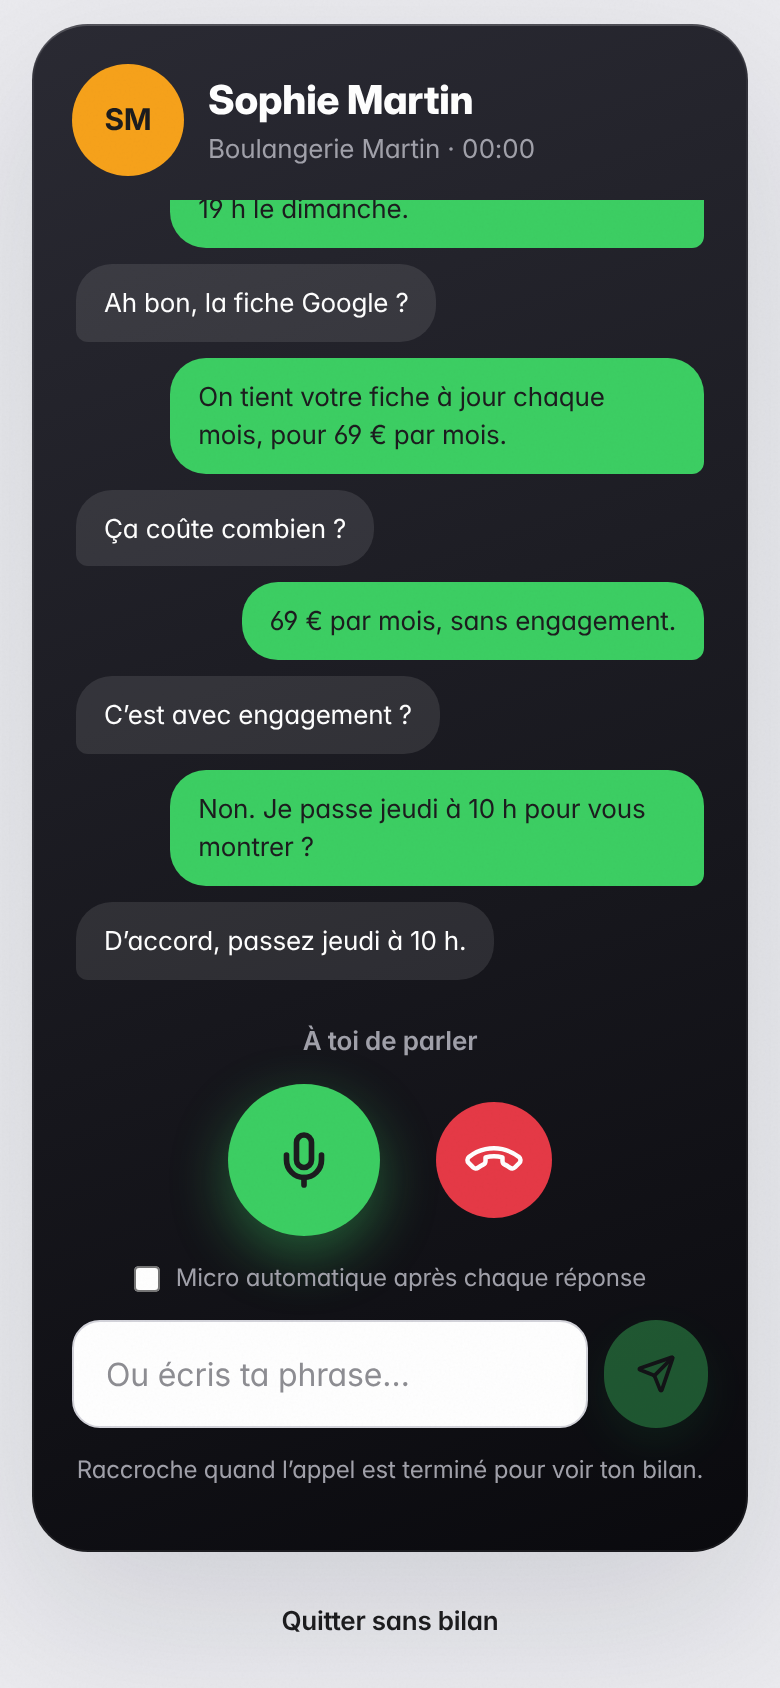
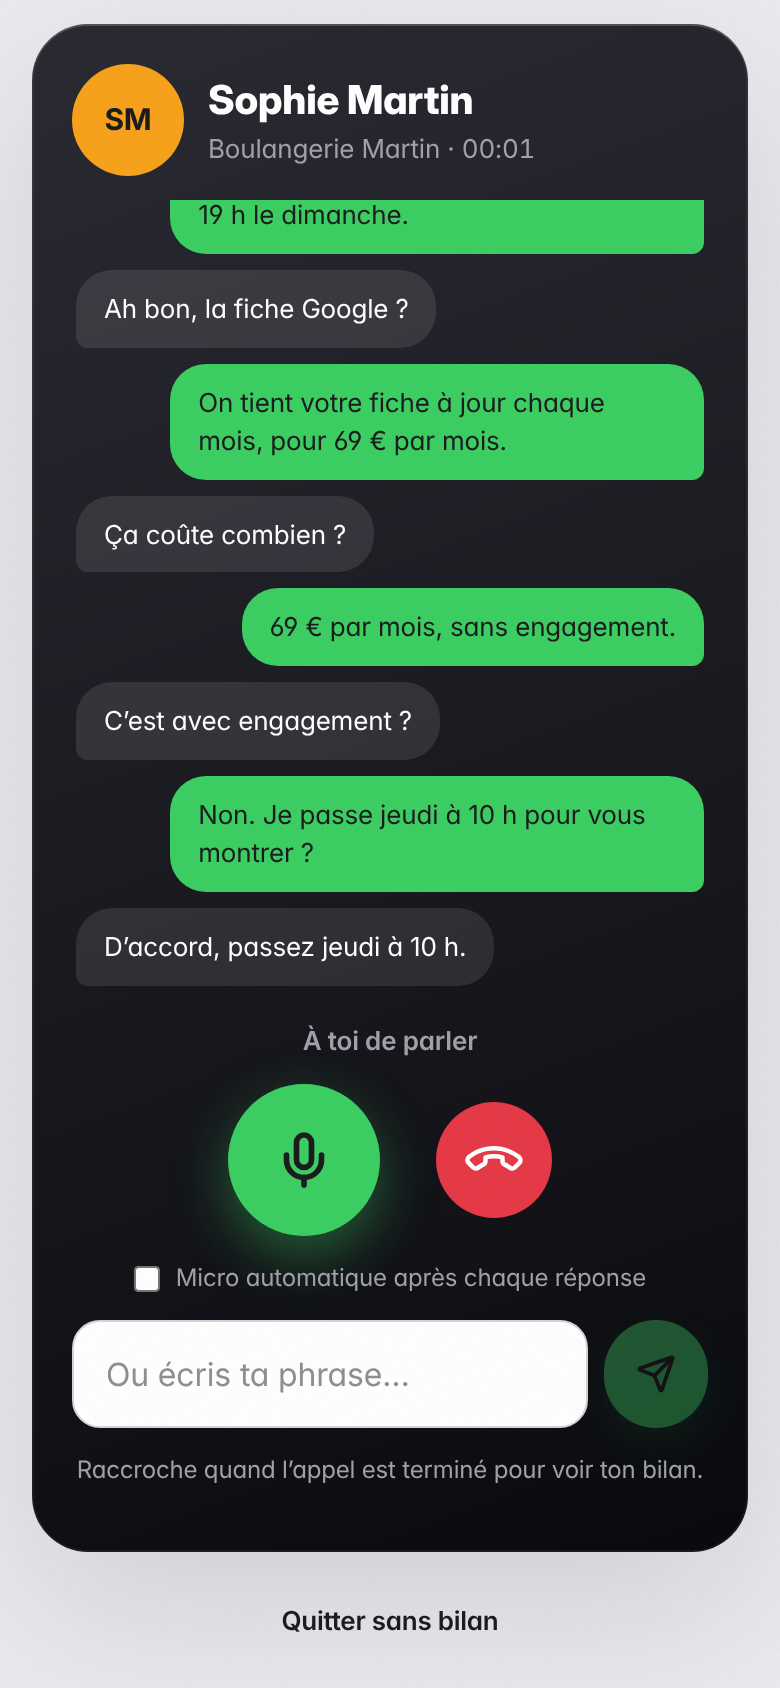
test(entrainement): capture du bilan à taille d'écran réelle
Claude-Session: https://claude.ai/code/session_01DwqZHCTDNdiB7zAEDRBzxH

Changed region(s): [[0.1231, 0.1232, 0.8923, 0.5853], [0.1231, 0.154, 0.1538, 0.1848]]

diff --git a/e2e/app-training.spec.ts b/e2e/app-training.spec.ts
@@ -76,6 +76,10 @@ test.describe('entraînement', () => {
     await expect(page.getByText('« Si je comprends bien, des clients viennent pour rien le dimanche ? »')).toBeVisible();
     await expectAccessible(page, 'bilan');
     if (process.env['DEMO']) await page.screenshot({ path: `qa/entrainement-bilan-${test.info().project.name}.png`, fullPage: true });
+    if (process.env['DEMO']) {
+      await page.getByRole('heading', { name: 'Le détail' }).scrollIntoViewIfNeeded();
+      await page.screenshot({ path: `qa/entrainement-bilan-ecran-${test.info().project.name}.png` });
+    }
     expect(supabase.fake.roleplay.passed(user.id)).toBe(true);
 
     // Historique et relecture.
